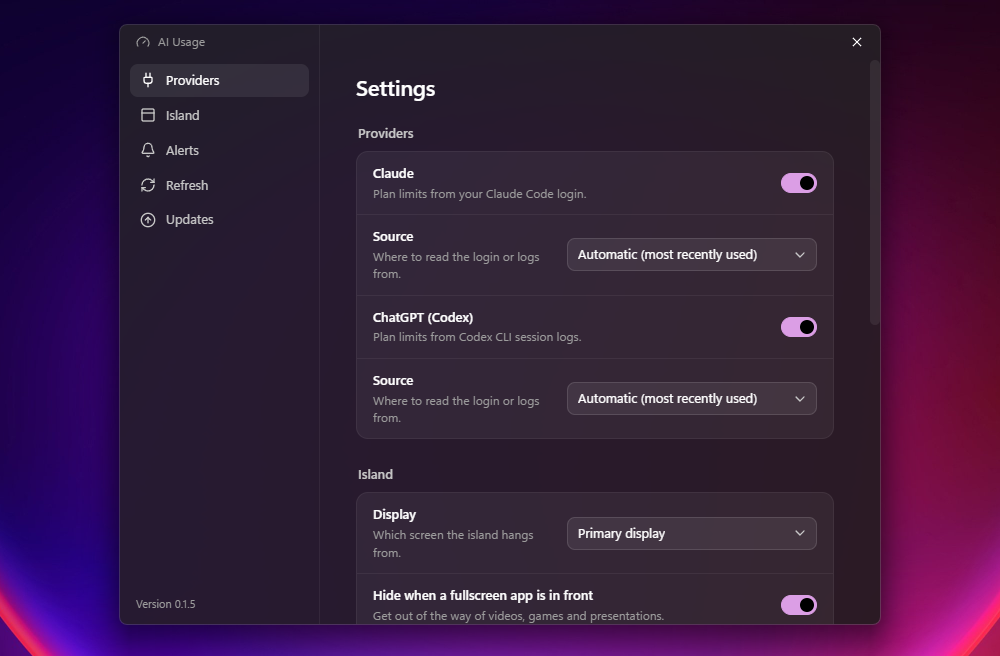
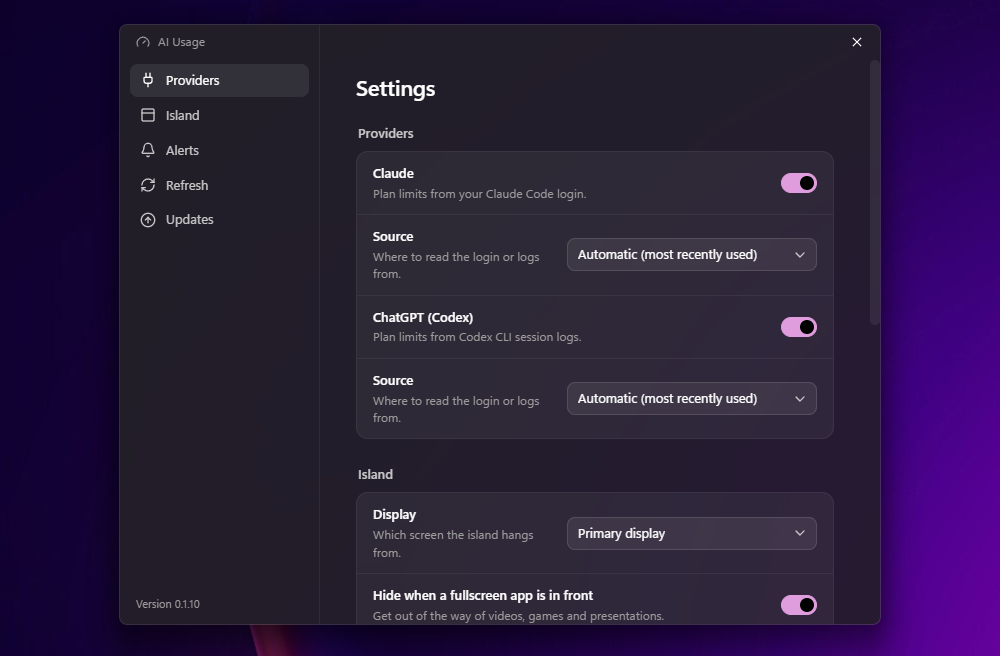
docs(readme): recapture the screenshots with the account switch
The panel shot predated the sign-in button beside each provider.

Changed region(s): [[0.0, 0.0, 1.0, 1.0]]

diff --git a/README.md b/README.md
@@ -11,13 +11,13 @@ It reads the logins and logs that the Claude Code and Codex CLIs already keep on
 **Island.** The pill hangs from the top edge of the screen: each provider's 5-hour usage, its plan, and a warning color as a limit fills up.
 
 <p align="center">
-  <img src="docs/screenshots/island.png" alt="Island pill showing Claude 39% MAX and Codex 100% PLUS in red" width="75%">
+  <img src="docs/screenshots/island.png" alt="Island pill showing Claude 12% MAX and Codex 0% PLUS" width="75%">
 </p>
 
-**Panel.** Hover the pill to expand it: every limit with its reset time, the source (Windows or WSL), and when the data was last updated.
+**Panel.** Hover the pill to expand it: every limit with its reset time, the source (Windows or WSL), and when the data was last updated. The buttons beside each provider switch its account or open its usage page.
 
 <p align="center">
-  <img src="docs/screenshots/panel.png" alt="Expanded panel with Claude 5-hour, weekly and per-model weekly limits, and Codex 5-hour and weekly limits" width="75%">
+  <img src="docs/screenshots/panel.png" alt="Expanded panel with Claude 5-hour, weekly and per-model weekly limits, Codex 5-hour and weekly limits, and sign-in and usage-page buttons beside each provider" width="75%">
 </p>
 
 **Settings.** Providers and their sources, island display, alerts, refresh and updates, following the Windows theme, accent color and Mica.
